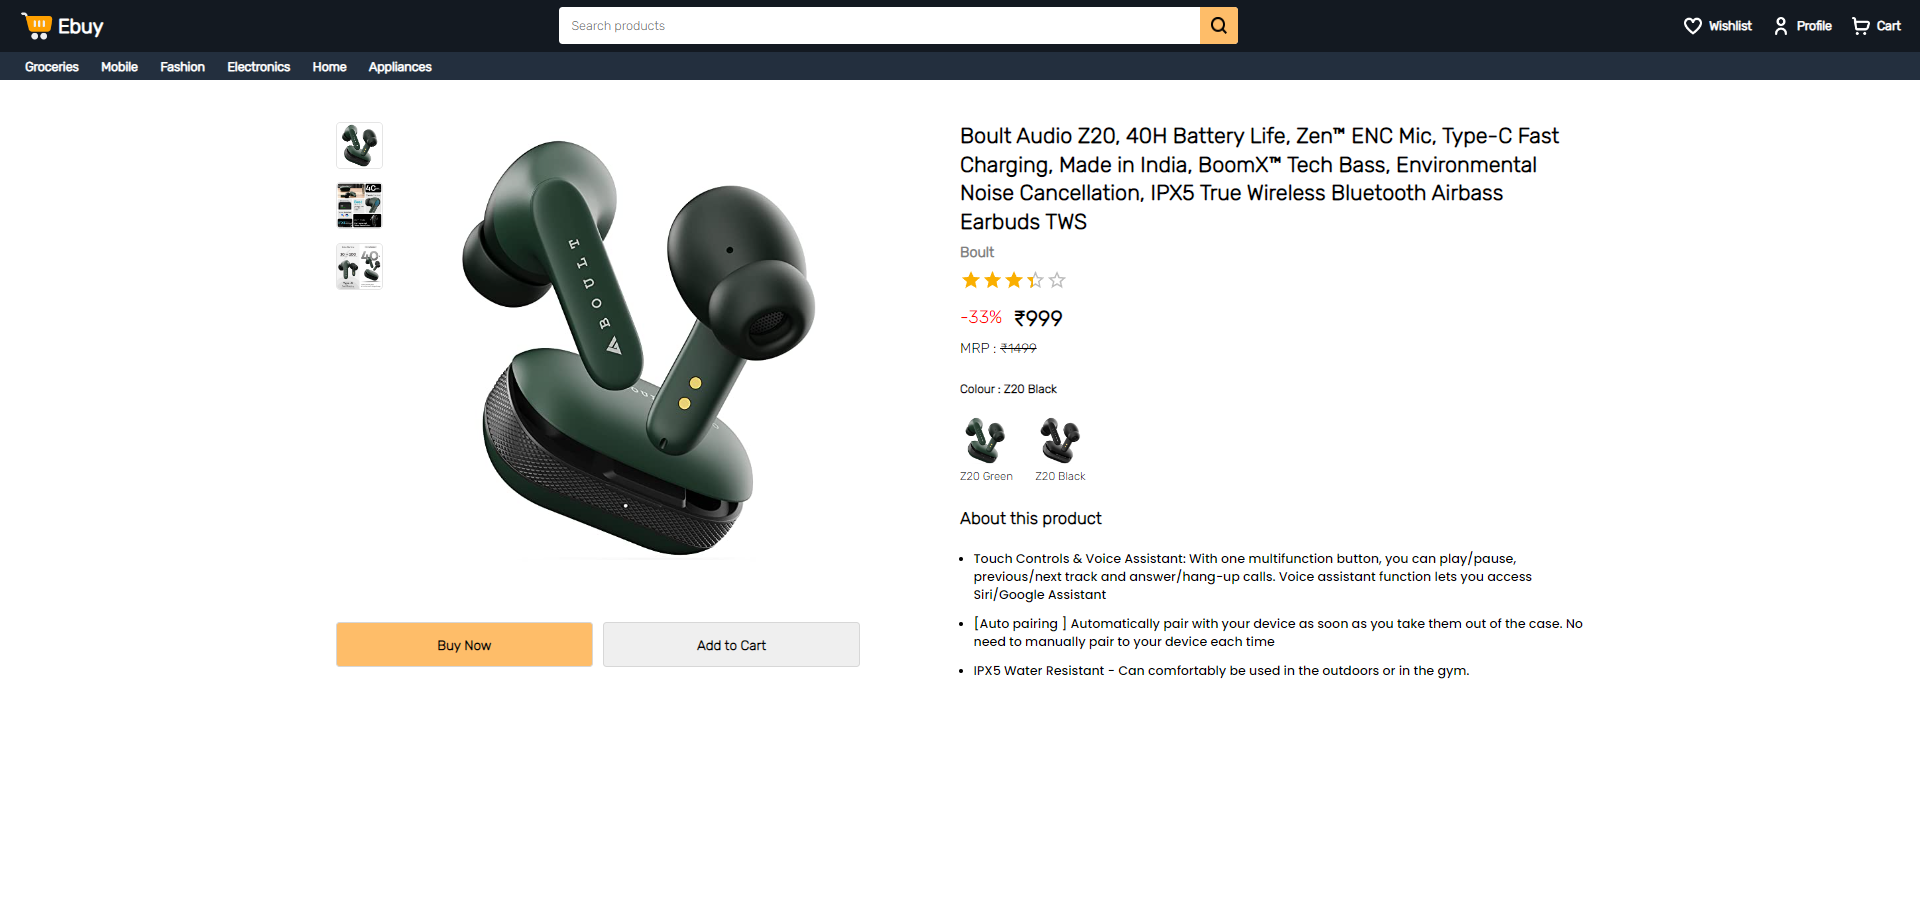
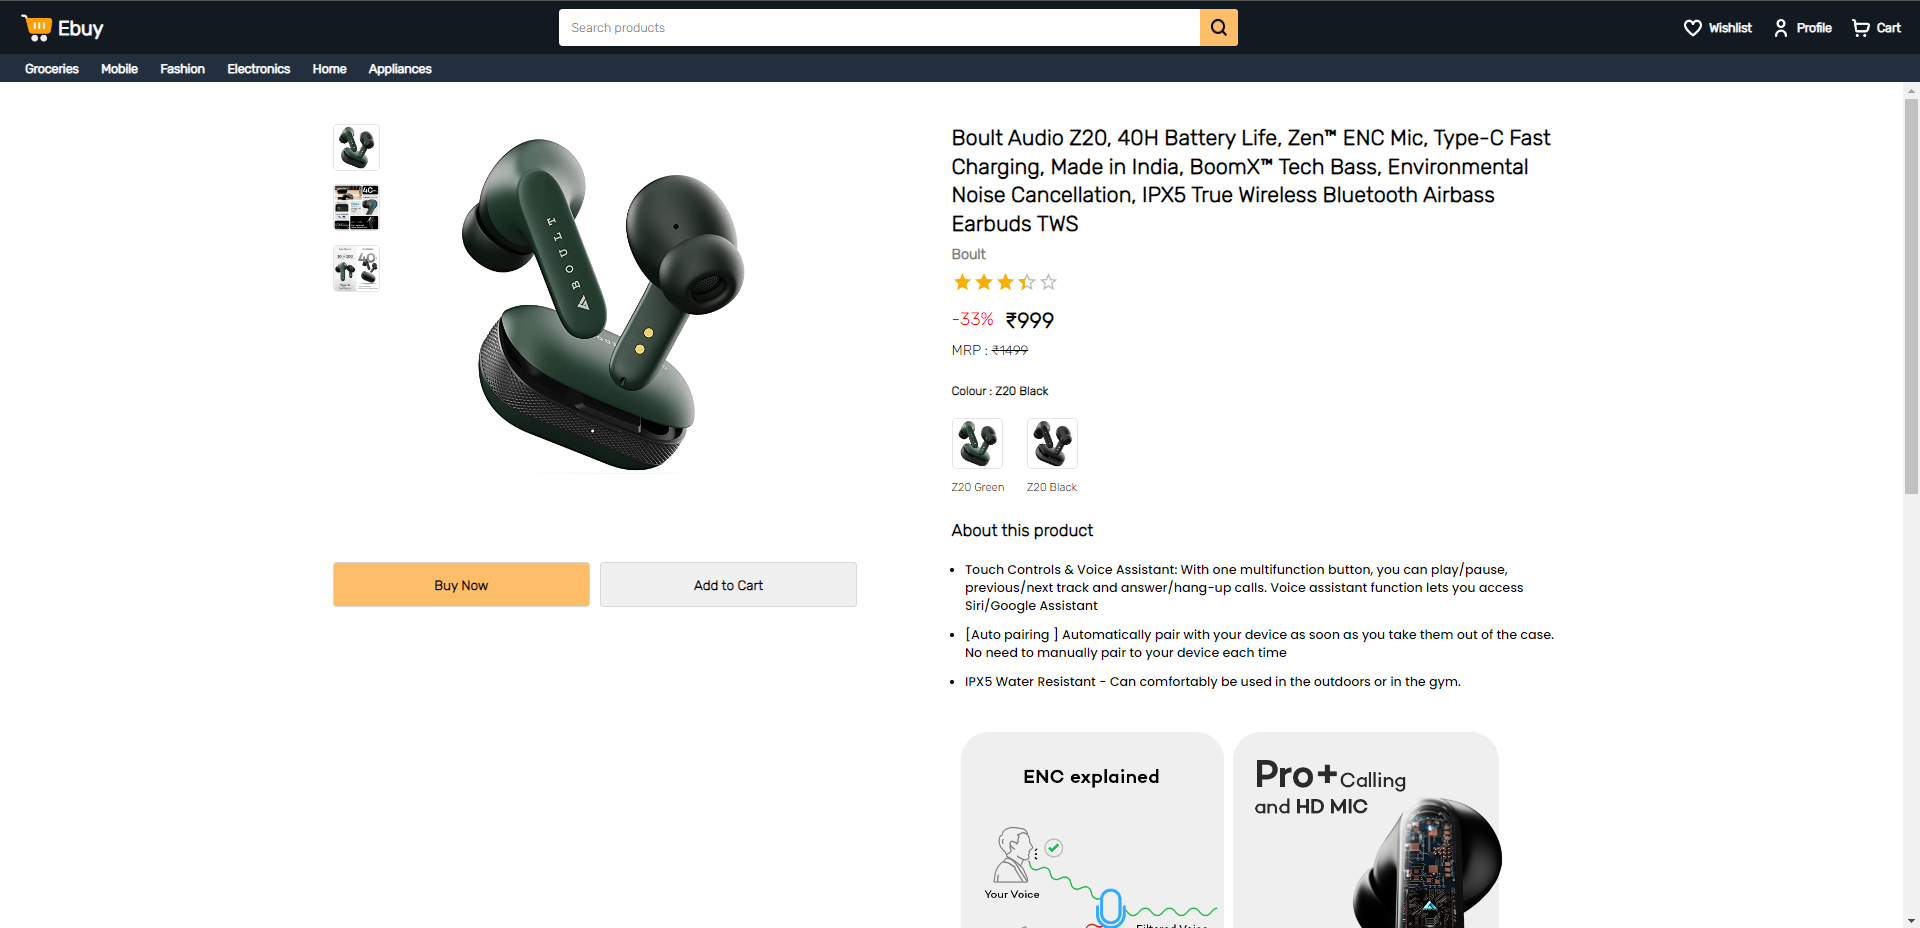
Reviews added at client products

diff --git a/client/src/pages/Product.tsx b/client/src/pages/Product.tsx
@@ -1,16 +1,32 @@
-import { Rating } from "@mui/material";
+import { ListItem, Rating } from "@mui/material";
 import { useQuery } from "@tanstack/react-query";
+import { useState } from "react";
 import { useParams } from "react-router-dom";
+import Review from "../components/product/Review";
 import { http } from "../interceptor/axiosInterceptor";
 import { url } from "../url";
 
 export default function Product() {
   const { id } = useParams();
+  const [productFetched, setProductFetched] = useState(false);
+
   const { data, isLoading, error } = useQuery({
     queryFn: () => http.get(`${url}/product/${id}`),
     queryKey: ["product", id],
+    onSuccess: () => {
+      setProductFetched(true);
+    },
   });
-  console.log(data);
+  const {
+    data: reviews,
+    isLoading: LoadingReviews,
+    error: errReviews,
+  } = useQuery({
+    queryFn: () => http.get(`${url}/product/reviews/${id}`),
+    queryKey: ["reviews", id],
+    enabled: !productFetched,
+  });
+  console.log(reviews);
   if (error) return "something went wrong";
   if (isLoading) return "Loading";
   return (
@@ -31,9 +47,10 @@ export default function Product() {
           alignItems: "flex-start",
           marginTop: "8px",
           justifyContent: "space-between",
+          position: "static",
         }}
       >
-        <div className="left_div_product">
+        <div className="left_div_product" style={{ position: "absolute" }}>
           <div
             className="sameline"
             style={{
@@ -61,7 +78,7 @@ export default function Product() {
             </div>
             <div className="selectedImage" style={{ margin: "0 2%" }}>
               <img
-                style={{ width: "500px", marginLeft: "-22px" }}
+                style={{ width: "400px", marginLeft: "-8px" }}
                 src={data?.data.colors[0].images[0]}
                 alt=""
               />
@@ -74,7 +91,7 @@ export default function Product() {
               display: "flex",
               flexDirection: "row",
               alignItems: "center",
-              marginTop: "5vh",
+              marginTop: "8vh",
             }}
           >
             <button
@@ -111,7 +128,10 @@ export default function Product() {
           </div>
         </div>
 
-        <div className="product_details" style={{ width: "50%" }}>
+        <div
+          className="product_details"
+          style={{ width: "50%", marginLeft: "auto" }}
+        >
           <div className="name">
             <h2 style={{ lineHeight: "32px" }}>{data?.data.name}</h2>
             <p style={{ marginTop: "8px", fontWeight: "bold", color: "gray" }}>
@@ -172,12 +192,17 @@ export default function Product() {
                 marginTop: "10px",
               }}
             >
-              {data?.data.colors.map(
+              {data?.data.colors?.map(
                 (color: { color: string; images: string[]; _id: string }) => {
                   return (
                     <div key={color._id}>
                       <img
-                        style={{ width: "55px" }}
+                        style={{
+                          width: "55px",
+                          border: "1px solid #e5e5e5",
+                          borderRadius: "5px",
+                          marginBottom: "8px",
+                        }}
                         src={color.images[0]}
                         alt=""
                       />
@@ -216,6 +241,52 @@ export default function Product() {
                 );
               })}
             </ul>
+          </div>
+          <div className="highlightedImages" style={{ marginTop: "20px" }}>
+            {data?.data.highlightedImages?.map((item: string) => {
+              return (
+                <img
+                  style={{
+                    width: "100%",
+                    margin: "auto",
+                    marginTop: "15px",
+                    borderRadius: "15px",
+                  }}
+                  src={item}
+                  alt=""
+                />
+              );
+            })}
+          </div>
+          <div className="ratings_view" style={{ marginTop: "35px" }}>
+            <h3 style={{ marginBottom: "20px" }}>Reviews</h3>
+            <div
+              style={{
+                display: "flex",
+                flexDirection: "column",
+                gap: "18px",
+              }}
+            >
+              {reviews?.data?.map(
+                (item: {
+                  comment: string;
+                  images: string[];
+                  _id: string;
+                  userId: string;
+                  updatedAt: string;
+                  rating: number;
+                }) => (
+                  <Review
+                    comment={item.comment}
+                    images={item.images}
+                    userId={item.userId}
+                    timestamp={item.updatedAt}
+                    rating={item.rating}
+                    key={item._id}
+                  />
+                )
+              )}
+            </div>
           </div>
         </div>
       </div>

diff --git a/client/src/components/product/Review.tsx b/client/src/components/product/Review.tsx
@@ -1,0 +1,87 @@
+import { Avatar, Rating } from "@mui/material";
+
+type ReviewProps = {
+  comment: string;
+  images: string[];
+  userId: string;
+  timestamp: string;
+  rating: number;
+};
+
+export default function Review({ comment, images, rating }: ReviewProps) {
+  return (
+    <div
+      style={{
+        backgroundColor: "#fafafa",
+        borderRadius: "16px",
+        padding: "25px 0",
+      }}
+    >
+      <div
+        className="sameline"
+        style={{
+          gap: "10px",
+          marginBottom: "3px",
+          marginLeft: "18px",
+          marginTop: "-9px",
+        }}
+      >
+        <Avatar sx={{ width: 32, height: 32 }} />
+        <p
+          style={{
+            color: "black",
+            fontSize: "14px",
+            fontWeight: "light",
+            fontFamily: "Poppins",
+          }}
+        >
+          Nisab Mohd
+        </p>
+      </div>
+
+      <Rating
+        value={rating}
+        size="small"
+        sx={{ marginLeft: "18px", marginTop: "4px" }}
+        readOnly
+      />
+      <p
+        style={{
+          fontSize: "13px",
+          marginTop: "8px",
+          width: "90%",
+          marginLeft: "18px",
+          color: "#3a3a3a",
+          fontFamily: "Poppins",
+        }}
+      >
+        {comment}
+      </p>
+      <div
+        className="iamges"
+        style={{
+          display: "flex",
+          flexDirection: "row",
+          alignItems: "center",
+          gap: "12px",
+          marginLeft: "18px",
+          marginTop: "14px",
+        }}
+      >
+        {images.map((image) => (
+          <img
+            key={image}
+            style={{
+              width: "65px",
+              height: "65px",
+              objectFit: "cover",
+              borderRadius: "5px",
+            }}
+            src={image}
+            alt=""
+          />
+        ))}
+      </div>
+    </div>
+  );
+}

diff --git a/server/src/controllers/product.controller.ts b/server/src/controllers/product.controller.ts
@@ -12,6 +12,17 @@ export const getProduct = asyncHandler(async (req, res, next) => {
   res.json(product);
 });
 
+export const getReviewsOfProduct = asyncHandler(async (req, res, next) => {
+  const product = await Product.findOne({ _id: req.params.id });
+  if (!product) throw new ServerError("No products found", 404);
+  const reviews = await Promise.all(
+    product.reviews.map(
+      async (item) => await Review.findOne({ _id: item.reviewId })
+    )
+  );
+  res.send(reviews);
+});
+
 // User
 //------
 export const reviewProduct = asyncHandler(async (req, res, next) => {

diff --git a/server/src/routes/product.ts b/server/src/routes/product.ts
@@ -4,6 +4,7 @@ import {
   deleteProduct,
   deleteReview,
   getProduct,
+  getReviewsOfProduct,
   reviewProduct,
   updateProduct,
   updateReview,
@@ -18,6 +19,8 @@ router
   .get(getProduct)
   .put(isAuthenticated, isAdmin, updateProduct)
   .delete(isAuthenticated, isAdmin, deleteProduct);
+
+router.route("/reviews/:id").get(getReviewsOfProduct);
 
 router
   .route("/review/:id")

diff --git a/client/src/index.css b/client/src/index.css
@@ -4,6 +4,12 @@
   font-family: 'Rubik', sans-serif;
 }
 
+.sameline {
+  display: flex;
+  flex-direction: row;
+  align-items: center;
+}
+
 .App {
   height: 100vh;
   width: 100vw;
